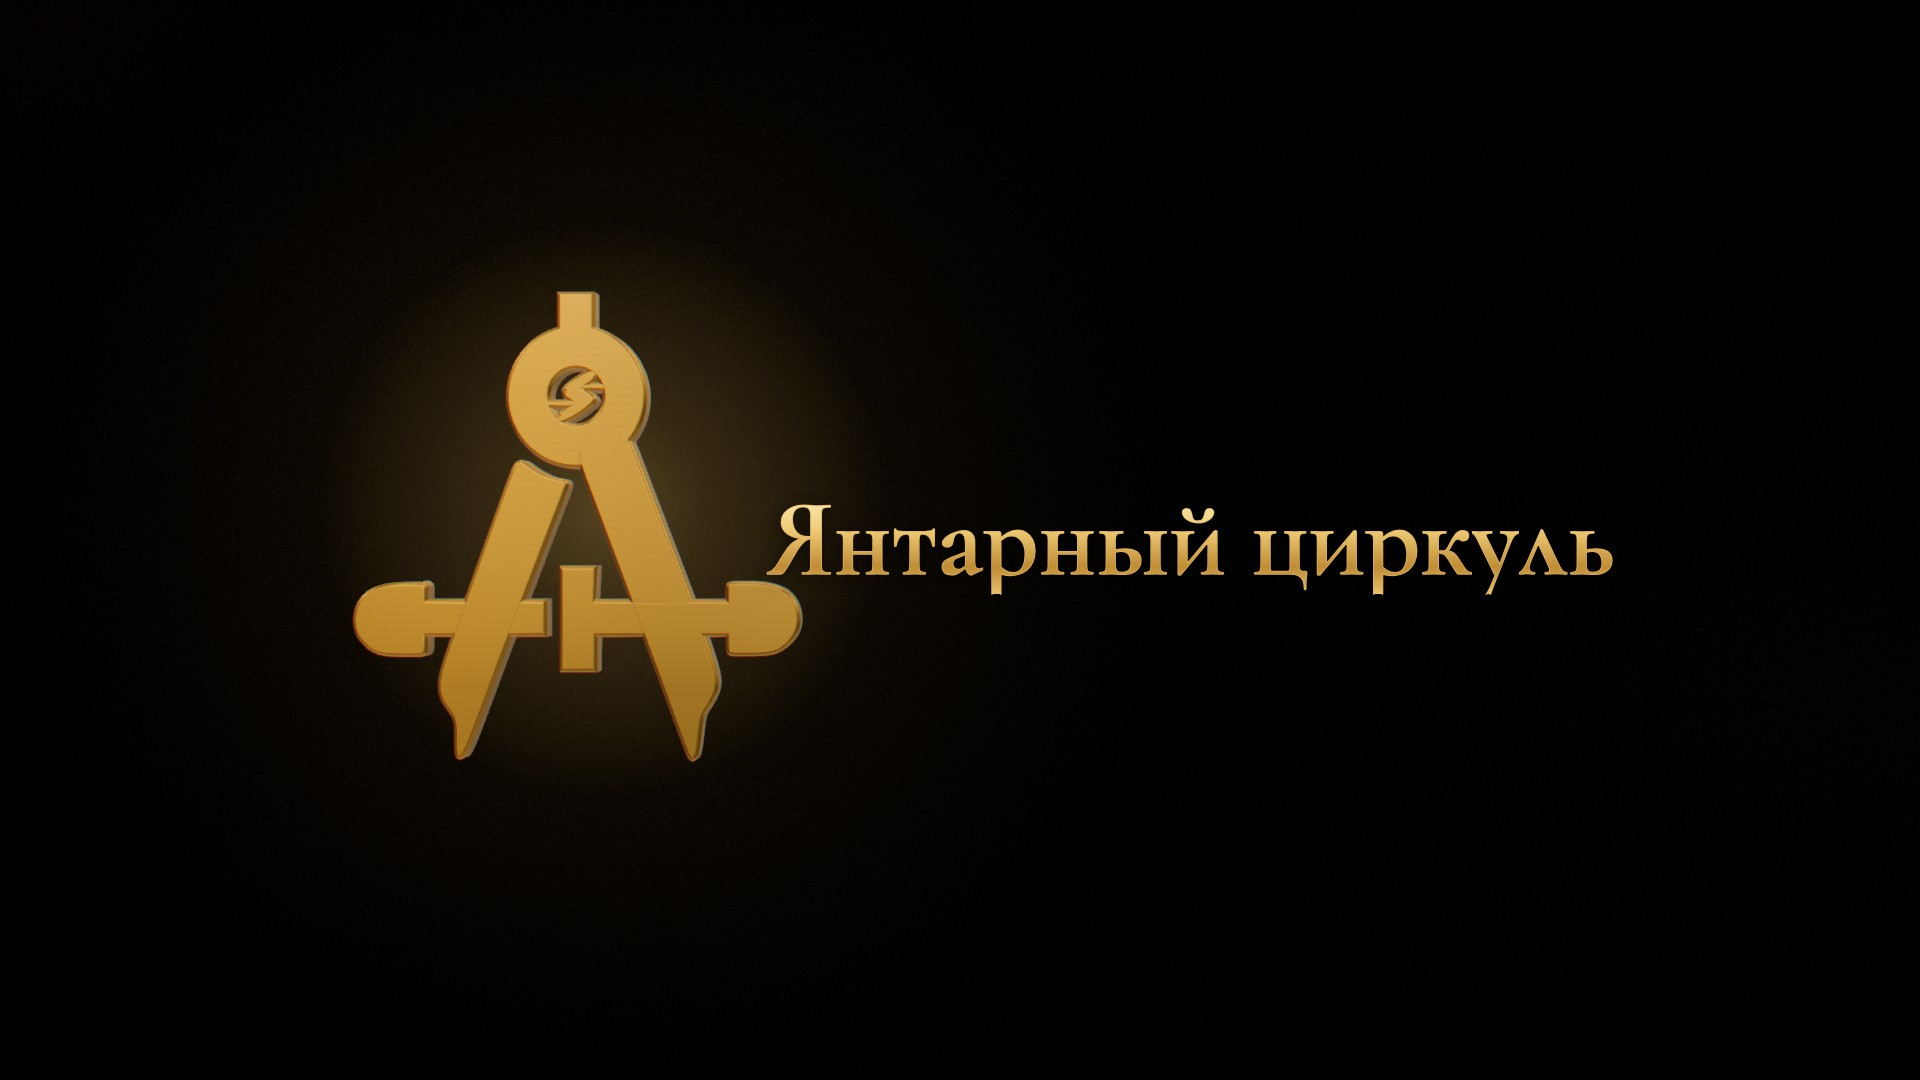
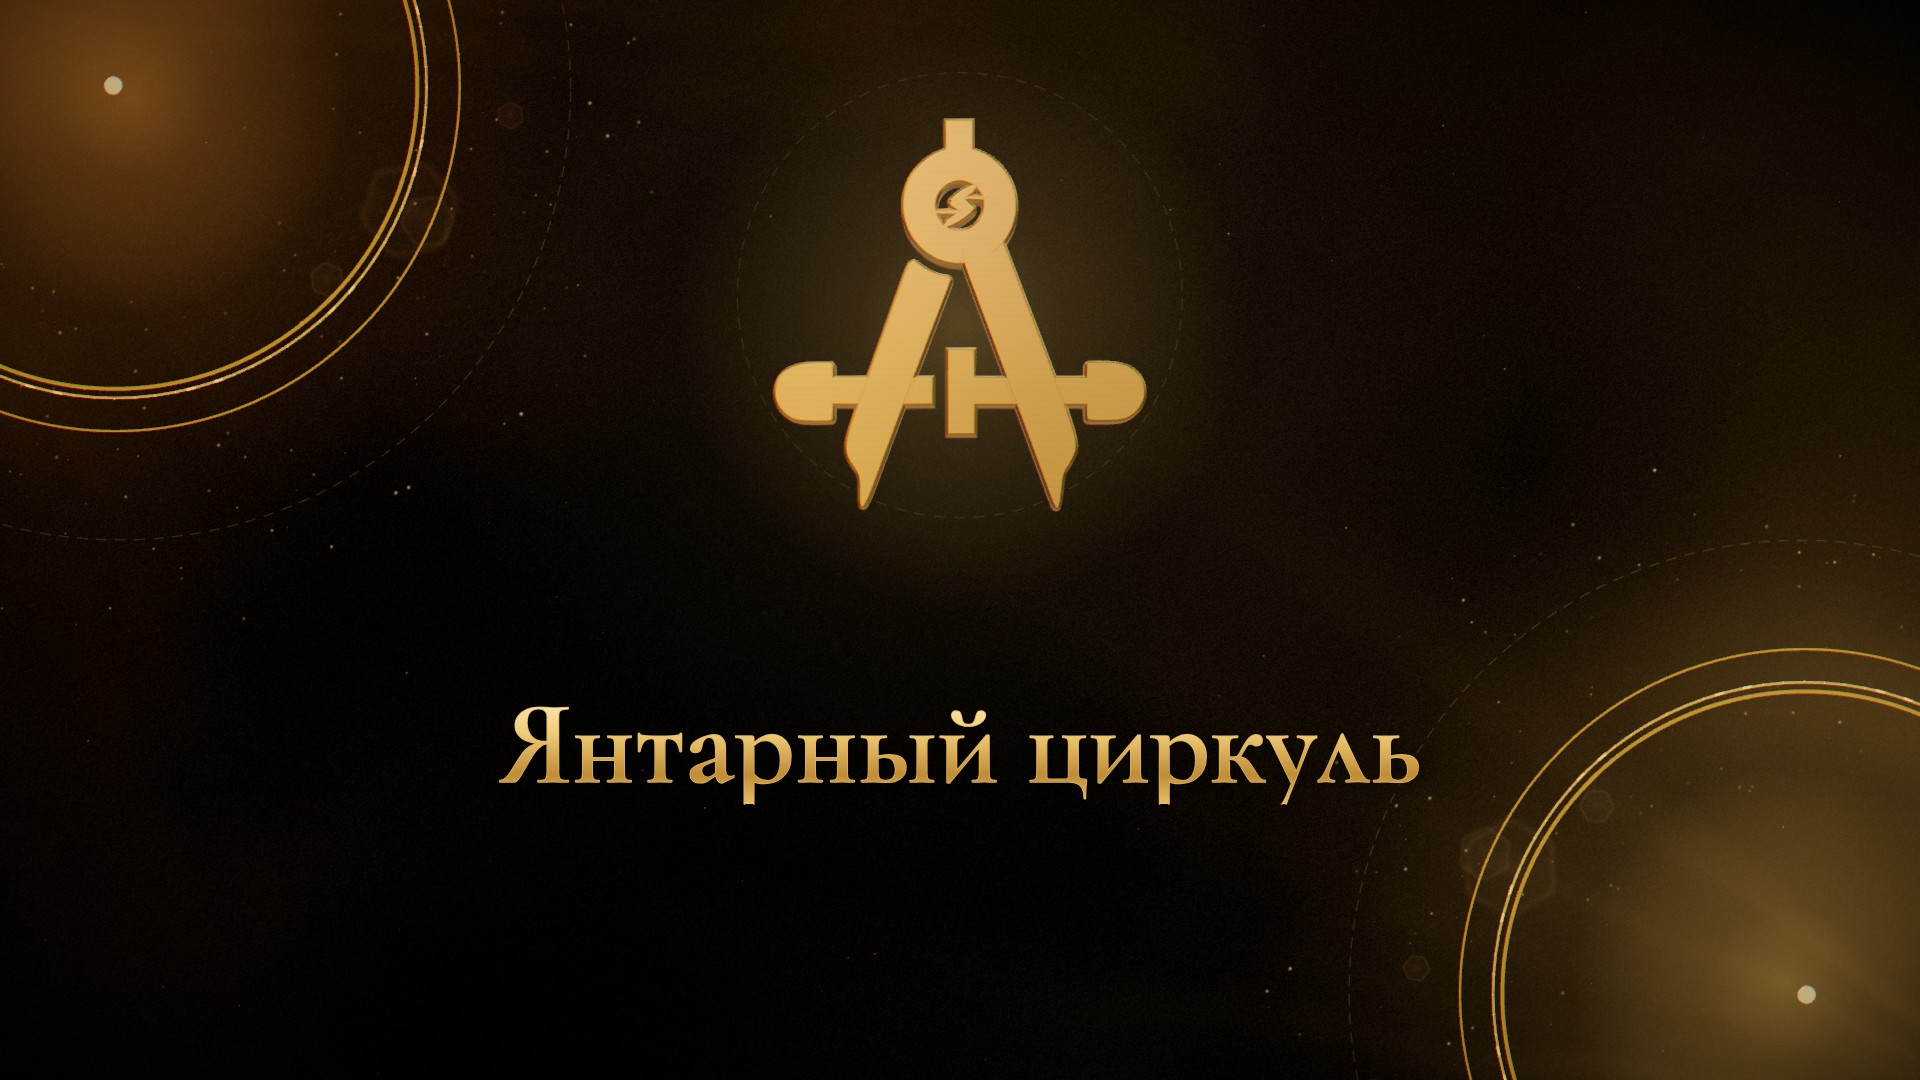
Restore luminous backgrounds and stacked titles across ready scenes

diff --git a/src/brand-scene.js b/src/brand-scene.js
@@ -7,18 +7,27 @@ import { quietBreath } from "./scenes/cues.js";
 // тайминг и декор заставки ожидания. Все движения нового вида — функция t.
 function renderConfig() {
   const cfg = cloneDefaults(WAITING_DEFAULTS);
-  cfg.rings.enabled = false;
-  cfg.particles.enabled = false;
-  cfg.particles.count = 0;
-  cfg.particles.dust = 0;
+  // Тот же световой язык, что у №1: золотые крайние кольца, туман,
+  // каустика и пыль. Приглушённее исходной заставки, чтобы фон не спорил
+  // с речью/титром, но больше не превращался в пустую чёрную плоскость.
+  cfg.rings.enabled = true;
+  cfg.rings.layers = 2;
+  cfg.rings.glowIntensity = 0.85;
+  cfg.rings.lightStrength = 1.3;
+  cfg.rings.constructionOpacity = 0.18;
+  cfg.rings.flicker = 0;
+  cfg.particles.enabled = true;
+  cfg.particles.count = 380;
+  cfg.particles.dust = 170;
+  cfg.particles.brightness = 0.65;
   cfg.sparks.enabled = false;
   cfg.sparks.count = 0;
-  cfg.background.lightIntensity = 0.24;
-  cfg.background.fog = 0.24;
-  cfg.background.godRays = 0.06;
-  cfg.background.gridOpacity = 0;
-  cfg.background.shimmer = 0.12;
-  cfg.lights.topGlow = 6;
+  cfg.background.lightIntensity = 0.55;
+  cfg.background.fog = 0.46;
+  cfg.background.godRays = 0.25;
+  cfg.background.gridOpacity = 0.012;
+  cfg.background.shimmer = 0.38;
+  cfg.lights.topGlow = 7;
   return cfg;
 }
 
@@ -37,19 +46,24 @@ export class BrandScene extends LogoScene {
     super.update(this.holdAt, dt);
     const cycle = this.brandConfig.timeline.holdDuration;
     const breathe = quietBreath(t, cycle);
-    this.logo.root.position.set(-1.7, 0.06, 0);
-    this.logo.root.scale.setScalar(0.61 * (1 + 0.012 * breathe));
+    // Единая композиция серии: циркуль по центру, подпись под ним.
+    this.logo.root.position.set(0, 1.00, 0);
+    this.logo.root.scale.setScalar(0.51 * (1 + 0.012 * breathe));
     this.logo.root.rotation.set(0.015 * breathe, 0.022 * breathe, 0);
     // Световая подложка поддерживает символ, а не делает из углов два солнца.
-    this.background.uniforms.uEnvL.value = 0.13;
-    this.background.uniforms.uEnvR.value = 0.08;
-    this.topGlow.position.set(-1.7, 0.15, -0.65);
+    this.background.uniforms.uTime.value = this.holdAt + 0.55 * breathe;
+    this.background.uniforms.uEnvL.value = 0.48;
+    this.background.uniforms.uEnvR.value = 0.43;
+    this.corners.sides.left.ticks.rotation.z += 0.035 * breathe;
+    this.corners.sides.right.ticks.rotation.z -= 0.035 * breathe;
+    this.corners.centerRing.rotation.z += 0.02 * breathe;
+    this.topGlow.position.set(0, 1.05, -0.65);
     this.topGlow.scale.setScalar(5.5);
     this.topGlow.material.opacity = 0.10 + 0.012 * breathe;
-    this.corners.group.visible = false;
+    this.corners.group.visible = true;
     this.plotter.group.visible = false;
-    this.particles.group.visible = false;
-    this.solarBokeh.group.visible = false;
+    this.particles.group.visible = true;
+    this.solarBokeh.group.visible = true;
     this.flare.mesh.visible = false;
   }
 }

diff --git a/src/main.js b/src/main.js
@@ -216,7 +216,7 @@ function drawCaption(ctx, alpha) {
   const brand = activeScene.id === "brand";
   const photo = activeScene.id === "photo-pause";
   const finale = activeScene.id === "finale";
-  const tSize = (brand ? 5.7 : photo ? 6.7 : finale ? 6.6 : 7.2) * u;
+  const tSize = (brand ? 6.2 : photo ? 6.7 : finale ? 6.6 : 7.2) * u;
   const titleGrad = (y) => {
     const g = ctx.createLinearGradient(0, y - tSize / 2, 0, y + tSize / 2);
     g.addColorStop(0, "#fff3cc"); g.addColorStop(0.4, "#f0cc78");
@@ -224,7 +224,7 @@ function drawCaption(ctx, alpha) {
     return g;
   };
   textLine(".cap-title", photo ? "Фотопауза" : "Янтарный циркуль", {
-    y: (brand ? 0.50 : photo ? 0.69 : 0.55) * H, centerX: brand ? 0.62 * W : W / 2,
+    y: (brand || photo ? 0.69 : 0.55) * H, centerX: W / 2,
     weight: 600, size: tSize, ls: 0, stroke: "#e0b25a", sw: 0.08 * u, shadow: true, fill: titleGrad,
   });
   if (finale) {

diff --git a/src/finale-scene.js b/src/finale-scene.js
@@ -10,8 +10,10 @@ export class FinaleScene extends BrandScene {
     this.logo.root.position.set(0, 1.02, 0);
     this.logo.root.scale.setScalar(0.50 * cue.symbol);
     this.logo.root.rotation.set(0, 0, 0);
-    this.background.uniforms.uEnvL.value = 0.08 * cue.light;
-    this.background.uniforms.uEnvR.value = 0.08 * cue.light;
+    // При сборке фразы проявляется фирменное поле с крайними кольцами;
+    // финальная темнота по-прежнему замыкает цикл точно в ноль.
+    this.background.uniforms.uEnvL.value = 0.45 * cue.light;
+    this.background.uniforms.uEnvR.value = 0.40 * cue.light;
     this.topGlow.position.set(0, 1.35, -0.65);
     this.topGlow.material.opacity = 0.085 * cue.light;
 

diff --git a/src/photo-pause-scene.js b/src/photo-pause-scene.js
@@ -33,8 +33,9 @@ export class PhotoPauseScene extends BrandScene {
     this.logo.root.rotation.set(0, 0.012 * breathe, 0);
     this.viewfinder.position.set(0, 0.92, -0.22);
     this.viewfinder.scale.setScalar(1 + 0.008 * breathe);
-    this.background.uniforms.uEnvL.value = 0.08;
-    this.background.uniforms.uEnvR.value = 0.08;
+    // Та же световая сцена, но более прохладная и симметричная пауза.
+    this.background.uniforms.uEnvL.value = 0.39;
+    this.background.uniforms.uEnvR.value = 0.39;
     this.topGlow.position.set(0, 0.92, -0.65);
     this.topGlow.material.opacity = 0.09;
   }

diff --git a/src/styles.css b/src/styles.css
@@ -28,9 +28,9 @@ html, body {
   pointer-events: none; /* никакой реакции на мышь */
 }
 
-/* Фирменное поле: один символ и одно название, без даты и декора титров. */
+/* Во всех видах циркуль и титр образуют вертикальную композицию. */
 body.scene-brand #caption .cap-title {
-  left: 62%; top: 50%; font-size: calc(var(--u) * 5.7);
+  left: 50%; top: 69%; font-size: calc(var(--u) * 6.2);
 }
 body.scene-brand #caption .cap-rule,
 body.scene-brand #caption .cap-sub,

diff --git a/docs/architecture.md b/docs/architecture.md
@@ -5,7 +5,7 @@
 - `src/scenes/catalog.js` — один формат 1920×1080, 60 FPS и **план** девяти видов. `waiting`, `brand`, `photo-pause` и `finale` имеют статус `ready`; виды №3–7 не выданы за работающие сцены.
 - `src/scenes/waiting.js` — параметры первой заставки, извлечённые из `src/config.js` без изменения значений. `config.js` остаётся совместимым с UI, JSON и прежними сохранёнными настройками браузера.
 - `src/runtime.js` — без DOM и WebGL: длительность цикла, `advance(elapsed)` с учётом паузы и скорости, независимый `renderAt(t)` через `update(t,dt)/render(dt)` адаптера.
-- `src/scene.js` — адаптер Three.js первой заставки; `src/brand-scene.js` переиспользует его высококачественный рендерер, но задаёт своё статичное фирменное поле и независимый таймлайн 24 с. `src/photo-pause-scene.js` добавляет рамку видоискателя, `src/finale-scene.js` последовательно открывает символ, название и фразу; чистые такты и защита шва находятся в `src/scenes/cues.js`. `src/main.js` выбирает адаптер по `?scene=waiting|brand|photo-pause|finale`, подключает движок и запись.
+- `src/scene.js` — адаптер Three.js первой заставки; `src/brand-scene.js` переиспользует его высококачественный рендерер, задаёт приглушённую вариацию колец, пыли и тёплого света первой заставки и независимый таймлайн 24 с. Во всех трёх второстепенных видах циркуль центрирован над титрами и в DOM, и в экспортном canvas. `src/photo-pause-scene.js` добавляет рамку видоискателя, `src/finale-scene.js` последовательно открывает символ, название и фразу; чистые такты и защита шва находятся в `src/scenes/cues.js`. `src/main.js` выбирает адаптер по `?scene=waiting|brand|photo-pause|finale`, подключает движок и запись.
 - `src/operator.js` — единый пульт, шкала точного seek, изменение длительности через holdDuration и явный переключатель ручного/автоматического режима. `main.js` снимает 1920×1080 композит уходящей сцены и растворяет его поверх нового WebGL-кадра за 0,9 с без перезагрузки и потери текста. Во время записи одного цикла ручной переход блокируется. `RECORDING_CHAIN` задаёт порядок однократной записи 01 → 02 → 08 → 09. **Основной экспорт:** `src/export-plan.js` вычисляет целочисленные границы сцен и 54-кадровые переходы; `src/offline-encoder.js` (WebCodecs + Mediabunny, MPL-2.0) ждёт backpressure кодера и ставит каждому кадру точный timestamp `k/60`, затем mux в WebM VP9. Весь файл рендерится в браузере медленнее реального времени при необходимости; пульт показывает прогресс и позволяет отменить. Прежняя MediaRecorder-сессия оставлена как legacy API для проверок, не основная кнопка экспорта. Панели и переходный DOM-оверлей не попадают в файл.
 - Единый `drawCompositeFrame` в `main.js` используется и браузерной записью WebM, и проверкой `compositeFrameAt(t)`. Последняя возвращает canvas реального размера, чтобы проверить наличие титра в экспорте.
 

diff --git a/README.md b/README.md
@@ -54,12 +54,12 @@
 
 ## Фирменный фон
 
-Откройте `?scene=brand` (например, `http://localhost:5173/?scene=brand`). Здесь **только один символ циркуля и «Янтарный циркуль»**, без даты, кольцевого декора и искр. Фон подходит для речи, ужина и музыкальных сетов: лёгкое дыхание металла замыкается без затемнения через **24 с**. В нижнем пульте есть пауза, запись одного цикла WebM и кнопки 01/02/08/09; в экспорт они не попадают. [Контрольный кадр](docs/brand-background.jpg). Проверка `npm run verify:brand` проверяет сцепку, текст в canvas и покадровый шов.
+Откройте `?scene=brand` (например, `http://localhost:5173/?scene=brand`). Циркуль расположен по центру **над** надписью «Янтарный циркуль»; даты нет. На фоне — приглушённая вариация света первой заставки: крайние золотые кольца, пыль, туман и лучи, без отвлекающих искр. Фон подходит для речи, ужина и музыкальных сетов: лёгкое дыхание металла и окружения замыкается без затемнения через **24 с**. В нижнем пульте есть пауза, запись одного цикла WebM и кнопки 01/02/08/09; в экспорт они не попадают. [Контрольный кадр](docs/brand-background.jpg). Проверка `npm run verify:brand` проверяет фон, вертикальную композицию, текст в canvas и покадровый шов.
 
 ## Фотопауза и финал
 
-- `?scene=photo-pause` (№8): 24 с, один символ в углах видоискателя и титр «Фотопауза». Вся композиция едва дышит; первый и последний кадры совпадают. [Контрольный кадр](docs/photo-pause.jpg).
-- `?scene=finale` (№9): 18 с; сначала светом открывается символ, затем посимвольно контуры и заливки «Янтарный циркуль», затем «История продолжается». В конце — затемнение перед следующим циклом. [Контрольный кадр](docs/finale.jpg).
+- `?scene=photo-pause` (№8): 24 с, циркуль в углах видоискателя, титр «Фотопауза» **под ним** и симметричный приглушённый фон с кольцами, пылью и светом. Вся композиция едва дышит; первый и последний кадры совпадают. [Контрольный кадр](docs/photo-pause.jpg).
+- `?scene=finale` (№9): 18 с; на том же золотом фоне сначала светом открывается циркуль, затем **под ним** посимвольно контуры и заливки «Янтарный циркуль», затем «История продолжается». В конце — затемнение перед следующим циклом. [Контрольный кадр](docs/finale.jpg).
 
 Без дополнительных надписей и звука. У каждого вида собственный таймлайн, но тот же экспортный canvas 1920×1080 и покадровая запись WebM через кнопку «● Цикл». При необходимости проверить оба вида: `SCENE=photo-pause npm run verify:priority` и `SCENE=finale npm run verify:priority` (сервер должен работать). Нажатие номера в панели переключает предпросмотр.
 
